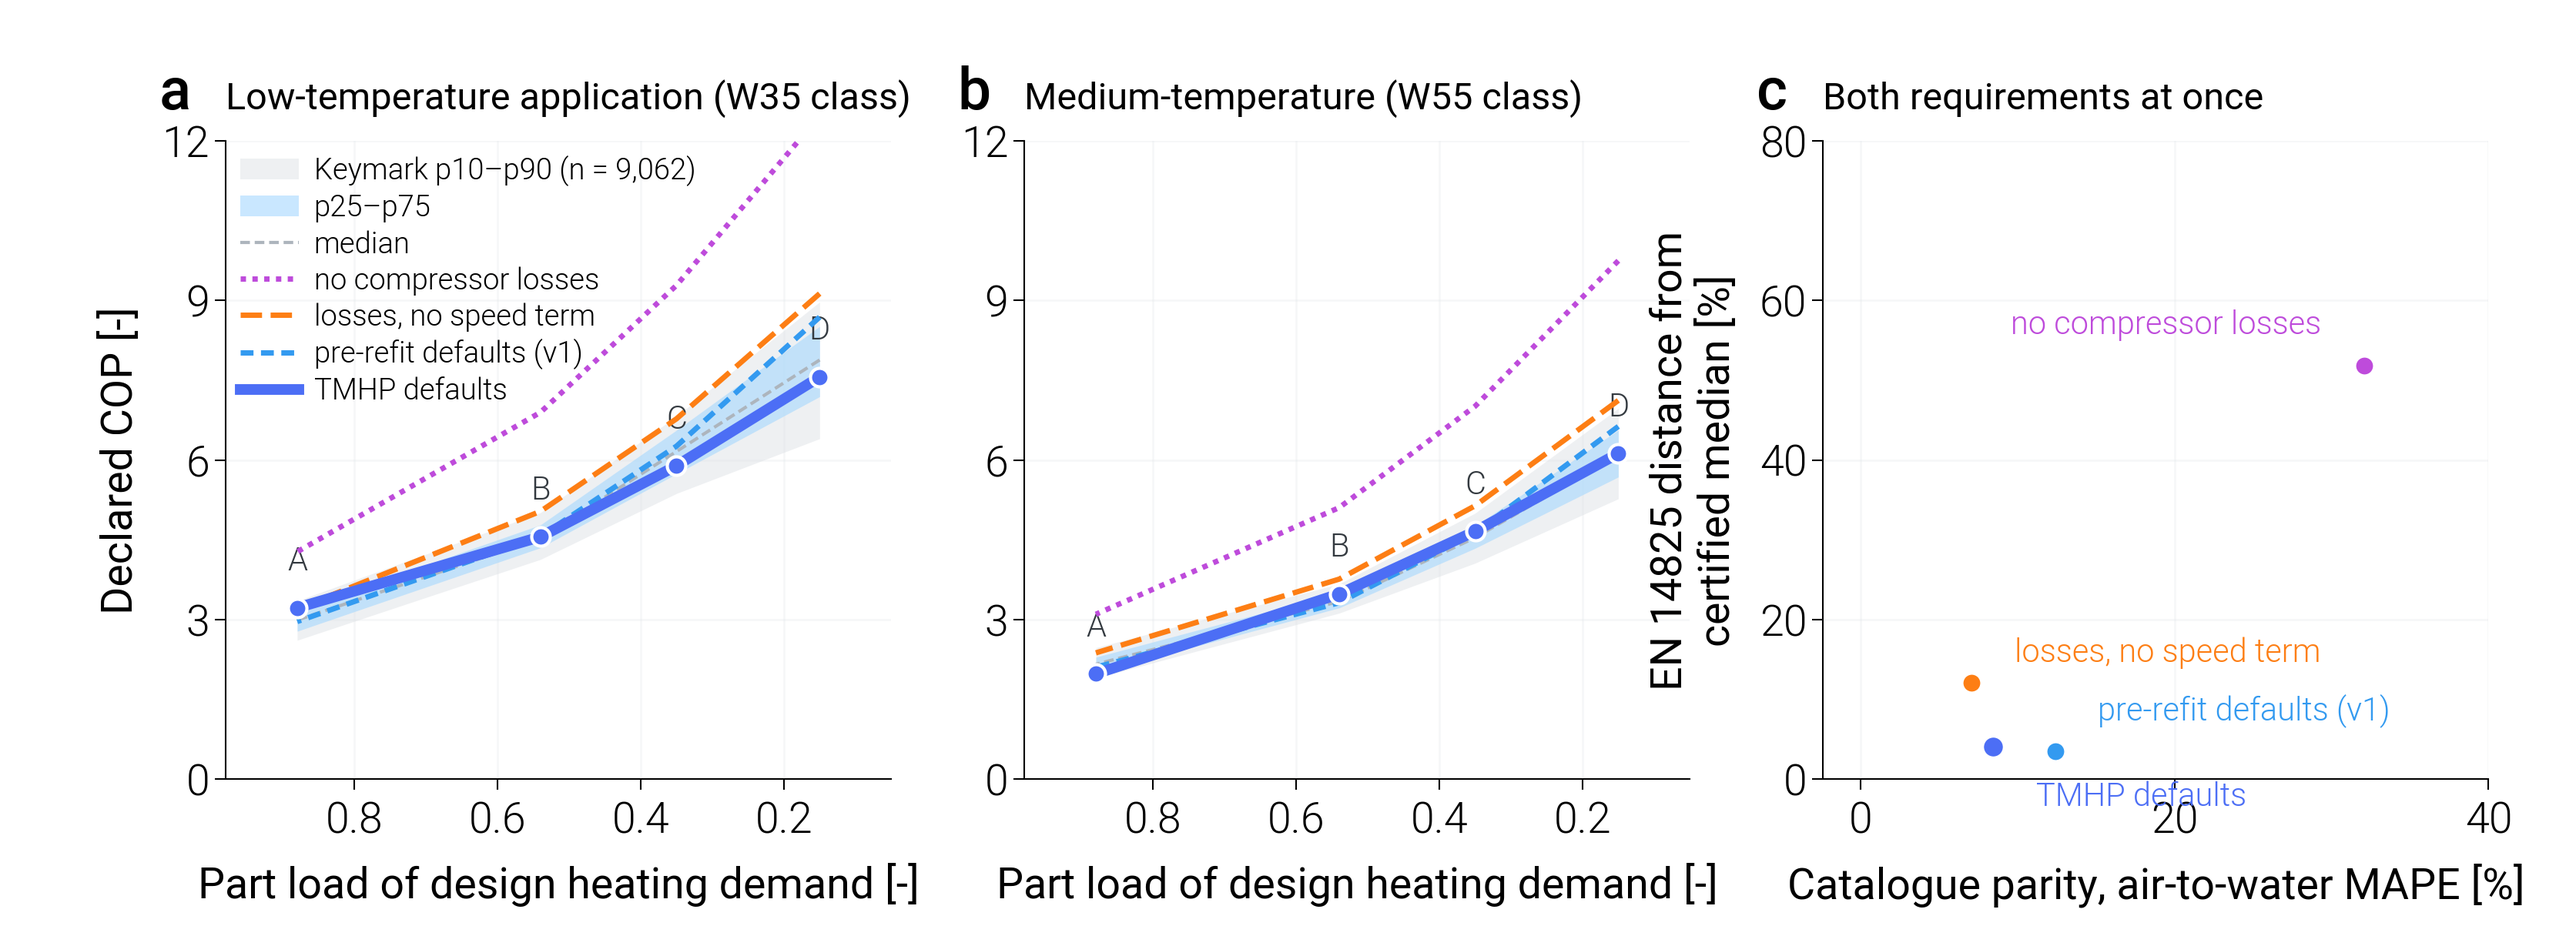
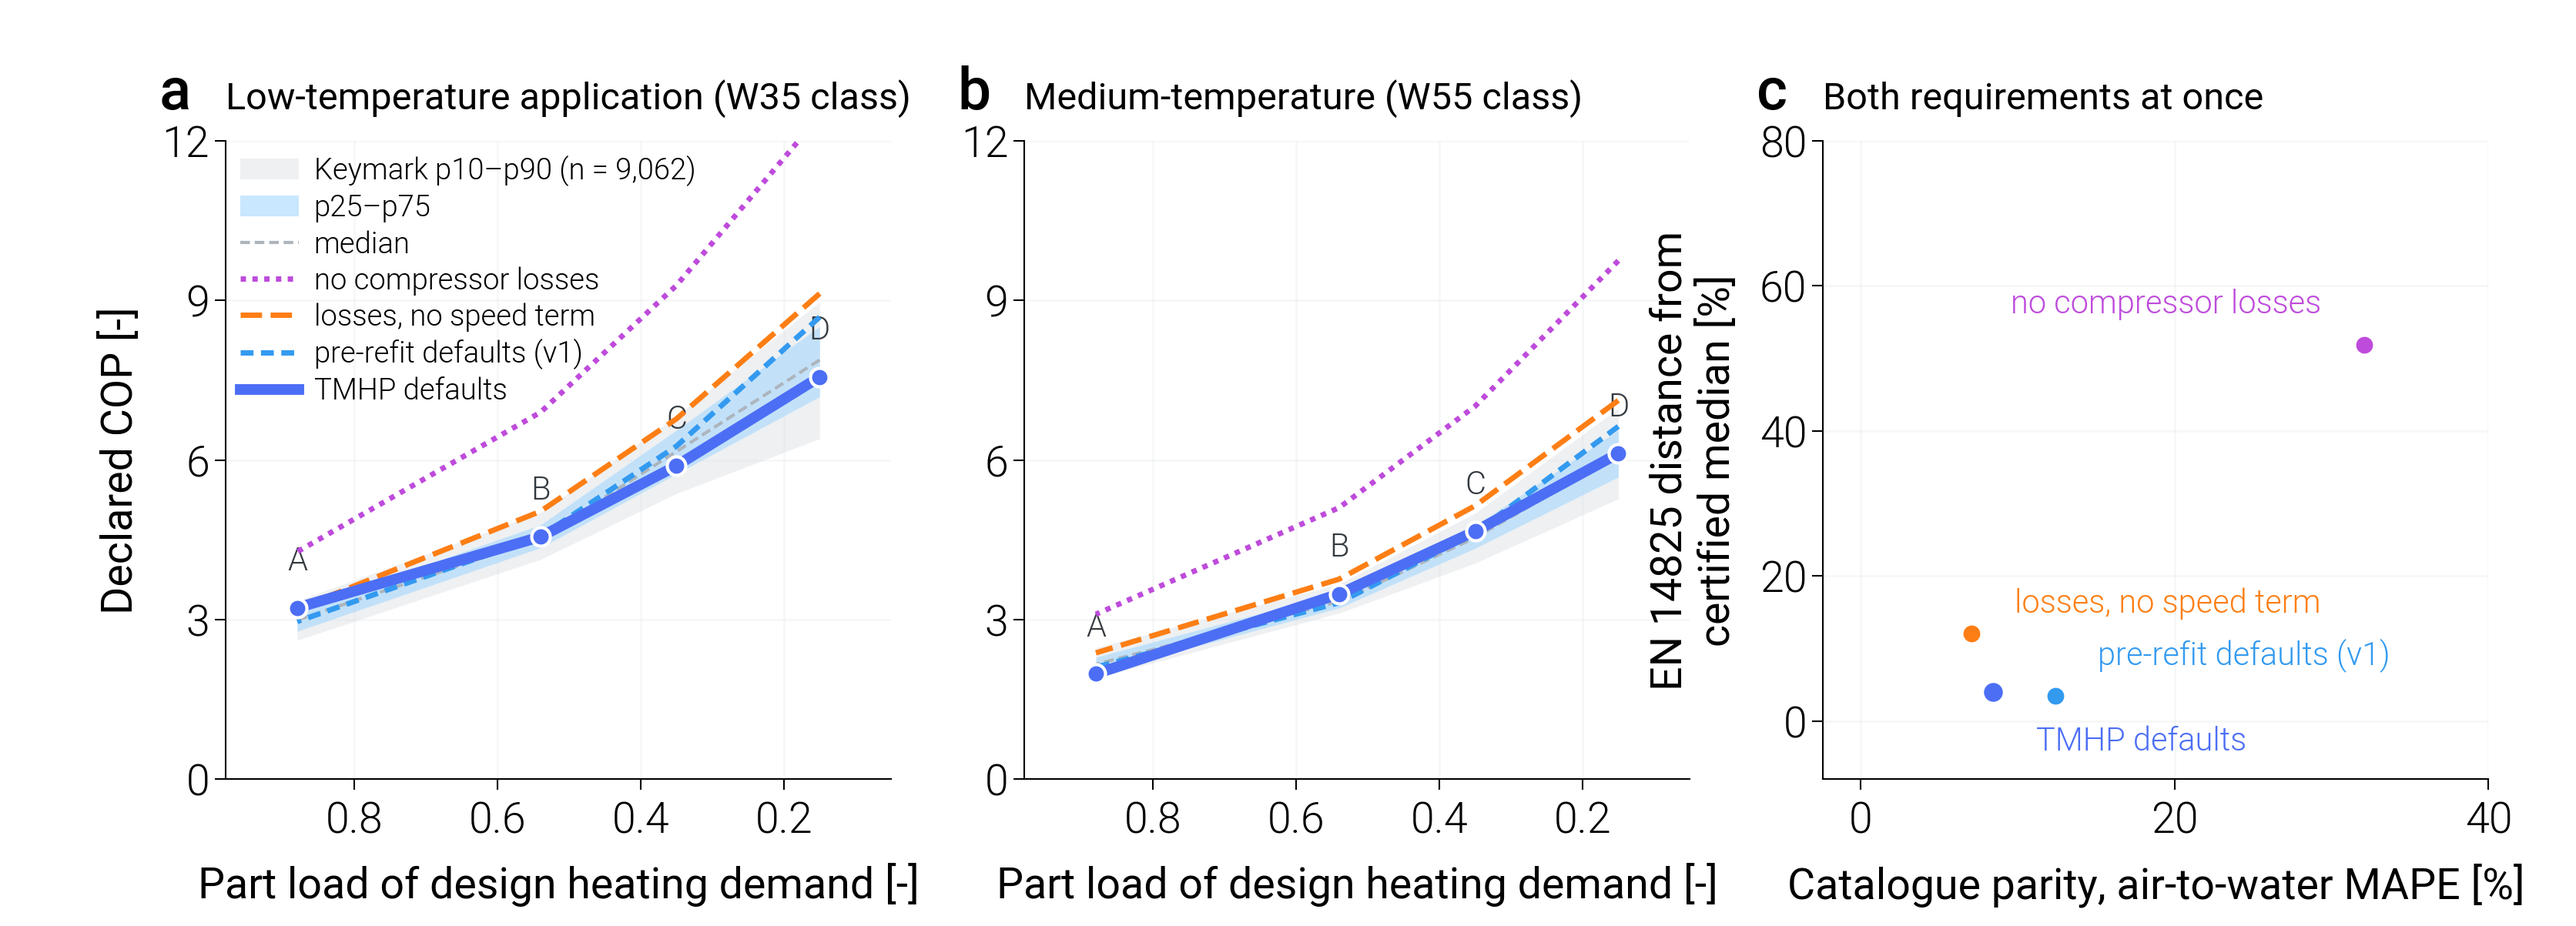
fix(figure): EN 14825 그림 (c) 패널의 y 축 아래에 여백 — 축 가까운 점의 이름이 x 눈금 글자와 겹치지 않게, #96
부하 가중으로 'TMHP defaults' 점이 인증 중앙값 가까이(4 %) 내려와, 점 아래에 두는
이름이 x 축 눈금 '20' 과 겹쳤다. (c) 패널의 y 범위를 0 에서 −top_y × 0.10 으로
내린다. y 눈금은 0 부터 그대로이고 이름의 위치 규칙(PANEL_C_LABEL)과 다른 두 패널은
건드리지 않았다. 소유자가 고른 화면(EN-2)이다.

Refs #96

diff --git a/scripts/validation/en14825_verdict_figure.py b/scripts/validation/en14825_verdict_figure.py
@@ -205,7 +205,9 @@ def main() -> None:
     top_x = float(np.ceil(hi_x * 1.10 / 20.0) * 20.0)
     top_y = float(np.ceil(hi_y * 1.12 / 20.0) * 20.0)
     ax.set_xlim(-top_x * 0.06, top_x)
-    ax.set_ylim(0.0, top_y)
+    # A tenth of the range below zero: a point near the axis keeps its name
+    # (placed under it, PANEL_C_LABEL) clear of the x tick labels. Ticks start at 0.
+    ax.set_ylim(-top_y * 0.10, top_y)
     ax.set_xticks(ticks(0.0, top_x, 20.0))
     ax.set_yticks(ticks(0.0, top_y, 20.0))
     panel_letter(ax, "c")
